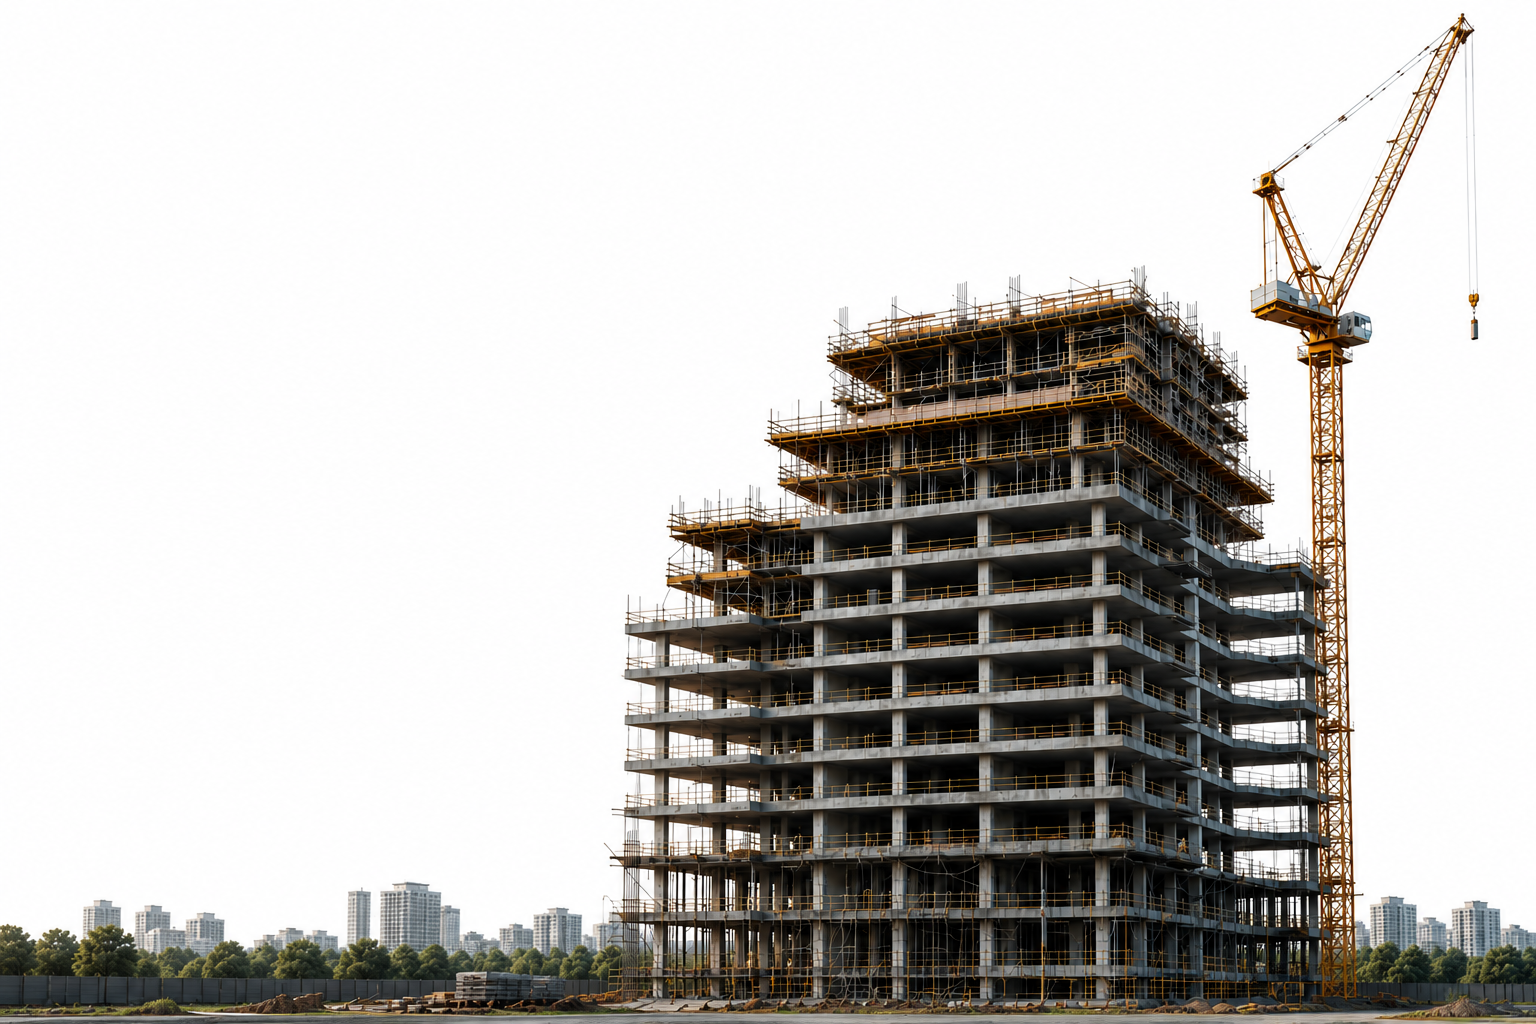
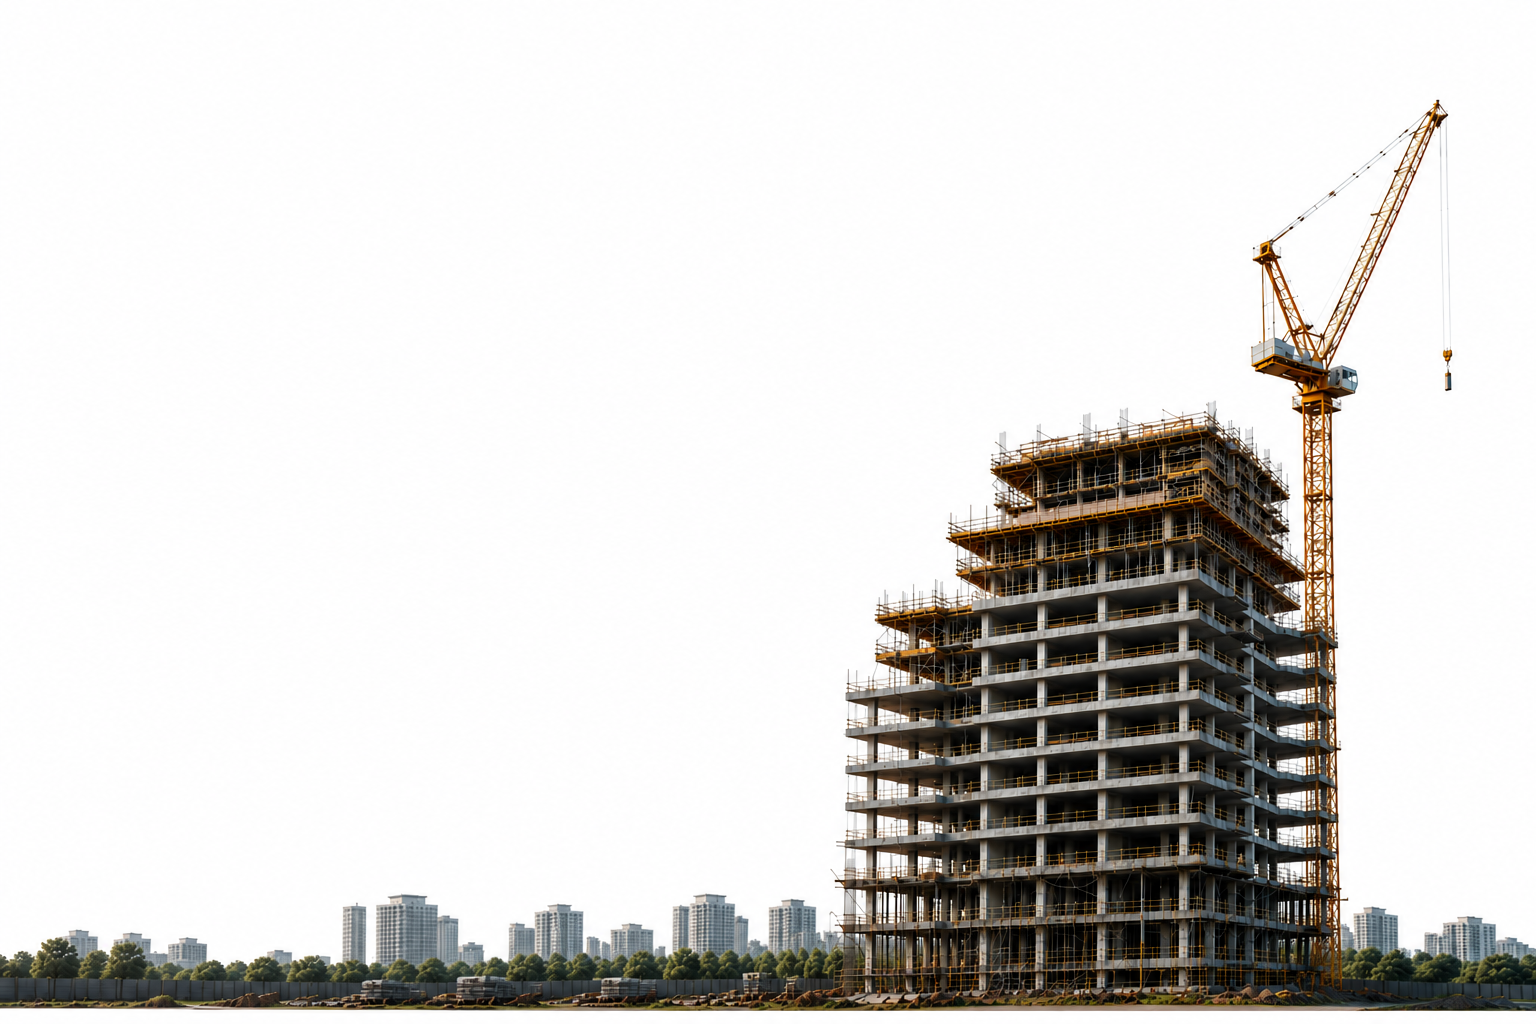
Reduce hero headline size and anchor content toward bottom with spacing
Hero text was dead-centered with a large empty gap below the CTA
buttons on tall screens. Shrunk headline/sub-copy sizes one step at
each breakpoint and switched vertical alignment from centered to
bottom-anchored with deliberate padding across all hero variants
(home carousel, service pages, page banners, project detail banner).

Changed region(s): [[0.0, 0.0, 1.0, 1.0], [0.9375, 0.2812, 0.9688, 0.375], [0.8438, 0.125, 0.875, 0.1562]]

diff --git a/components/sections/HeroCarousel.tsx b/components/sections/HeroCarousel.tsx
@@ -52,7 +52,7 @@ export default function HeroCarousel() {
   return (
     <>
       <section
-        className="relative overflow-hidden bg-slate-950 w-full flex items-center"
+        className="relative overflow-hidden bg-slate-950 w-full flex items-end pb-20 sm:pb-24 lg:pb-28"
         style={{ height: '100dvh', minHeight: '100svh' }}
         onMouseEnter={() => setPaused(true)}
         onMouseLeave={() => setPaused(false)}
@@ -94,12 +94,12 @@ export default function HeroCarousel() {
             </span>
             
             {/* Headline with Vibrant Blue Keyword Highlights */}
-            <h1 className="text-3xl sm:text-4xl lg:text-6xl font-bold text-white leading-[1.15] tracking-tight drop-shadow-md">
+            <h1 className="text-2xl sm:text-3xl lg:text-5xl font-bold text-white leading-[1.15] tracking-tight drop-shadow-md">
               {renderHighlightedHeadline(slide.headline)}
             </h1>
-            
+
             {/* Sub Headline */}
-            <p className="mt-4 text-slate-100 text-base sm:text-lg leading-relaxed max-w-xl font-medium drop-shadow-xs">
+            <p className="mt-4 text-slate-100 text-sm sm:text-base lg:text-lg leading-relaxed max-w-xl font-medium drop-shadow-xs">
               {slide.sub}
             </p>
 

diff --git a/app/projects/[slug]/page.tsx b/app/projects/[slug]/page.tsx
@@ -47,14 +47,14 @@ export default async function ProjectDetailPage({
           <GracefulImage src={project.coverImage} alt={project.title} fill className="object-cover opacity-70" priority sizes="100vw" />
           <div className="absolute inset-0 bg-gradient-to-t from-blue-950 via-blue-950/40 to-blue-950/10" />
         </div>
-        <Container className="absolute inset-x-0 bottom-0 pb-8">
+        <Container className="absolute inset-x-0 bottom-0 pb-20 sm:pb-24 lg:pb-28">
           <div className="mb-4 [&_a]:text-blue-100/70 [&_span]:!text-white">
             <Breadcrumbs items={[{ name: "Home", href: "/" }, { name: "Projects", href: "/projects" }, { name: project.title, href: `/projects/${project.slug}` }]} />
           </div>
           <span className="inline-block font-mono-label text-xs uppercase tracking-wide text-green-400 mb-2">
             {project.category}
           </span>
-          <h1 className="text-3xl sm:text-4xl font-semibold text-white">{project.title}</h1>
+          <h1 className="text-2xl sm:text-3xl font-semibold text-white">{project.title}</h1>
           <p className="text-blue-100/80 mt-1">{project.location} · {project.year}</p>
         </Container>
       </section>

diff --git a/components/sections/PageHero.tsx b/components/sections/PageHero.tsx
@@ -58,7 +58,7 @@ export default function PageHero({
   return (
     <>
       <section
-        className="relative overflow-hidden bg-slate-950 w-full flex items-center"
+        className="relative overflow-hidden bg-slate-950 w-full flex items-end pb-20 sm:pb-24 lg:pb-28"
         style={{ height: "100dvh", minHeight: "100svh" }}
       >
         {/* Full Viewport Ultra HD Photo */}
@@ -95,12 +95,12 @@ export default function PageHero({
             </span>
 
             {/* Headline with Brand Blue Keyword Highlight */}
-            <h1 className="text-3xl sm:text-4xl lg:text-5xl font-bold text-white leading-[1.15] tracking-tight drop-shadow-md">
+            <h1 className="text-2xl sm:text-3xl lg:text-4xl font-bold text-white leading-[1.15] tracking-tight drop-shadow-md">
               {renderHighlightedHeadline(headline)}
             </h1>
-            
+
             {/* Sub Headline */}
-            <p className="mt-4 text-slate-100 text-base sm:text-lg leading-relaxed max-w-xl font-medium drop-shadow-xs">
+            <p className="mt-4 text-slate-100 text-sm sm:text-base lg:text-lg leading-relaxed max-w-xl font-medium drop-shadow-xs">
               {sub}
             </p>
 

diff --git a/components/sections/ServiceHero.tsx b/components/sections/ServiceHero.tsx
@@ -25,7 +25,7 @@ export default function ServiceHero({
 }: ServiceHeroProps) {
   return (
     <section
-      className="relative w-full overflow-hidden flex items-center pt-28 pb-16 lg:pt-36 lg:pb-24 border-b border-slate-200"
+      className="relative w-full overflow-hidden flex items-end pt-28 pb-16 sm:pb-20 lg:pb-24 border-b border-slate-200"
       style={{ height: '100dvh', minHeight: '100svh' }}
     >
       {/* Background Image */}
@@ -43,10 +43,10 @@ export default function ServiceHero({
 
       <Container className="relative z-10 w-full">
         <div className="max-w-3xl">
-          <h1 className="text-4xl sm:text-5xl lg:text-6xl font-extrabold text-white leading-[1.1] tracking-tight">
+          <h1 className="text-2xl sm:text-3xl lg:text-4xl font-extrabold text-white leading-[1.15] tracking-tight">
             {headline}
           </h1>
-          <p className="mt-6 text-lg sm:text-xl text-slate-200 leading-relaxed border-l-4 border-green-400 pl-4 max-w-2xl">
+          <p className="mt-5 text-base sm:text-lg text-slate-200 leading-relaxed border-l-4 border-green-400 pl-4 max-w-2xl">
             {copy}
           </p>
 
